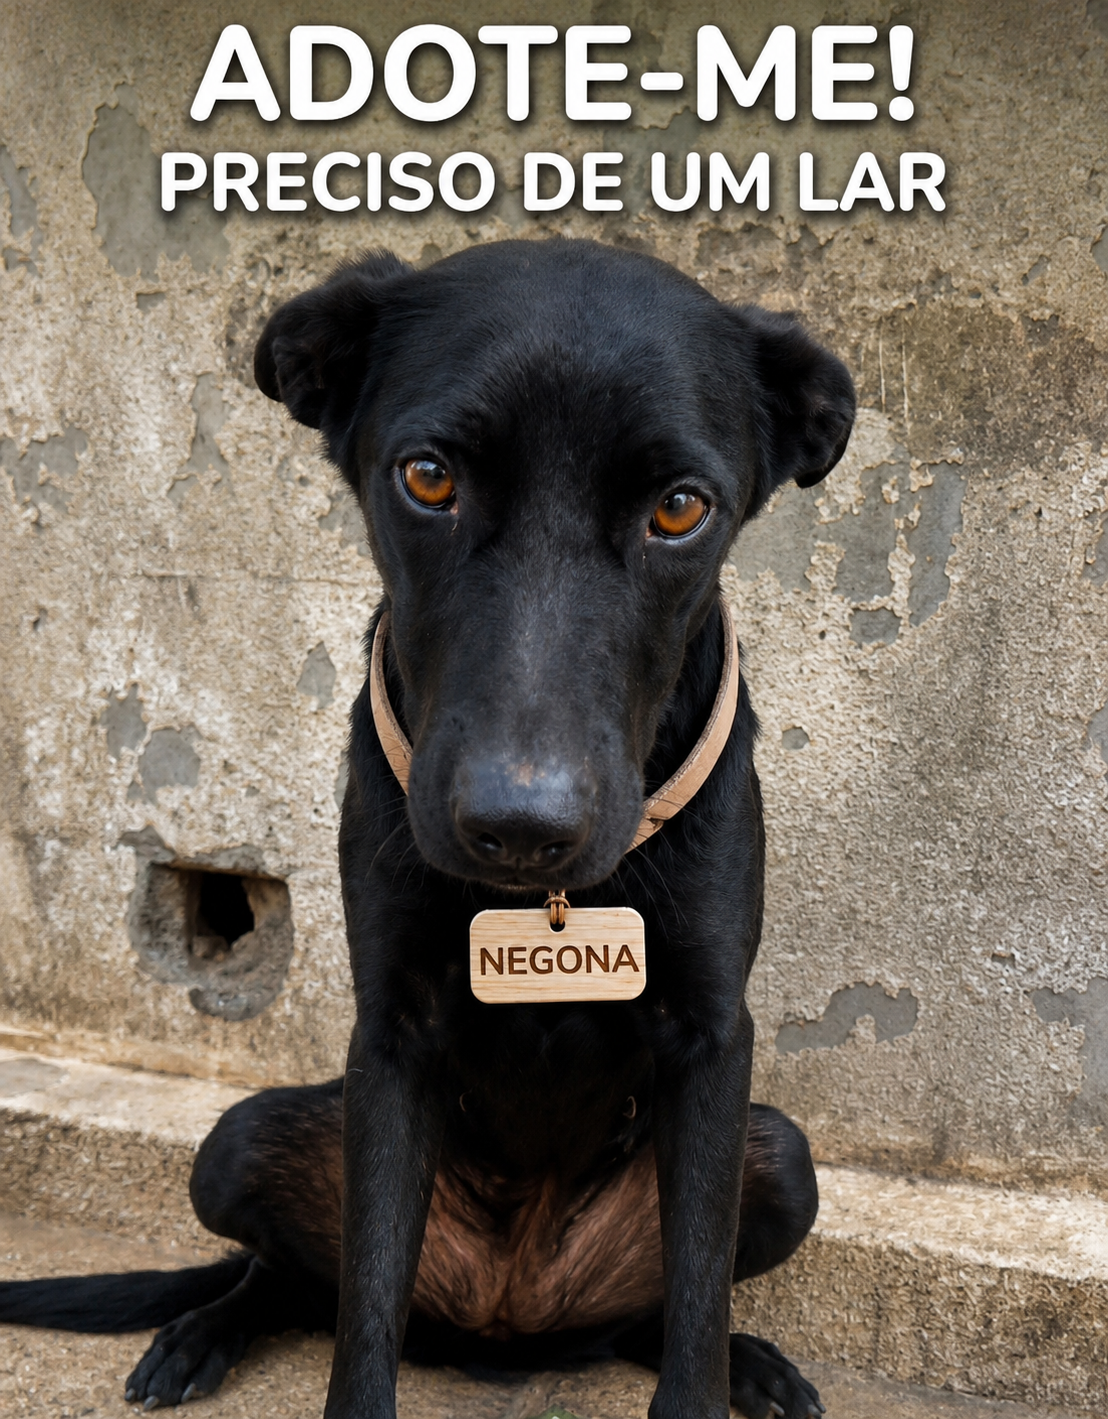
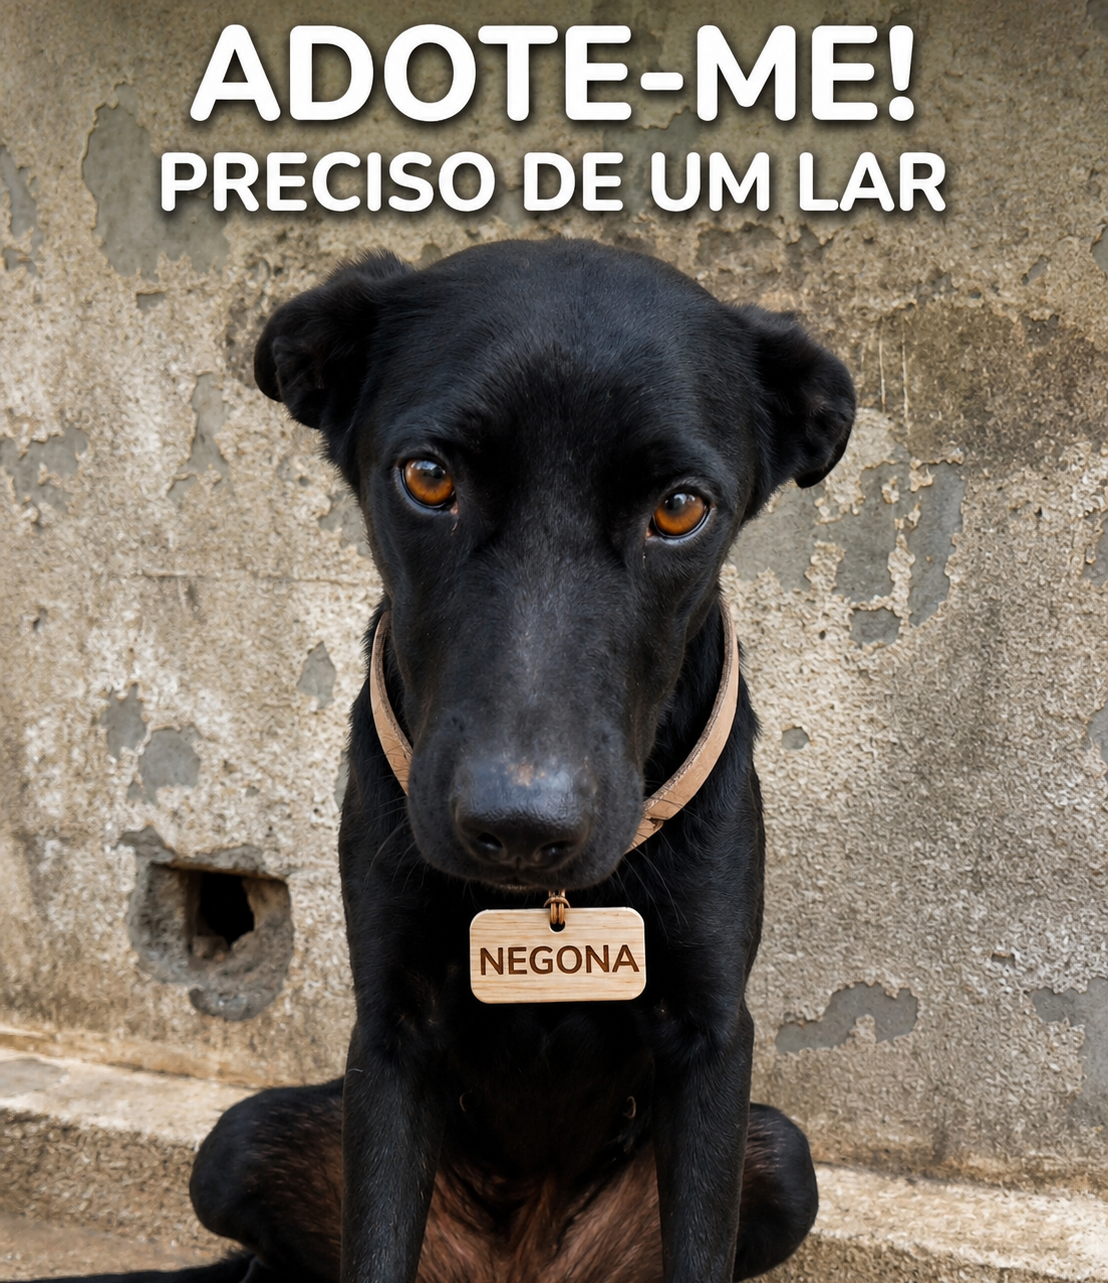
style: improve css style in history page

diff --git a/src/frontend/src/pages/History/History.jsx b/src/frontend/src/pages/History/History.jsx
@@ -1,5 +1,6 @@
 import { useState, useRef, useEffect } from 'react';
 import { useNavigate } from 'react-router-dom';
+import dogPaw from '../../assets/historypage/HISTORY_dog_paw.webp';
 import styles from './History.module.css';
 import ButtonComponent from '../../components/btn/ButtonComponent/ButtonComponent';
 
@@ -125,15 +126,27 @@ const History = () => {
   return (
     <main className={styles.main}>
       <section className={styles.quemSomos}>
-        <p className={styles.chapeu}>Quem Somos</p>
-        <h1>
-          De uma <em>ideia</em>, uma revolução de <em>amor.</em>
-        </h1>
+        <div className={styles.quemSomosHeader}>
+          <div className={styles.imageWrapper}>
+            <img
+              src={dogPaw}
+              alt={`Pata de cachorro da ${name}`}
+              className={styles.dogPaw}
+            />
+          </div>
+
+          <p className={styles.chapeu}>Quem Somos</p>
+
+          <h1>
+            De uma <em>ideia</em>, uma revolução de <em>amor.</em>
+          </h1>
+        </div>
+
         <div className={styles.paragrafos}>
-          <p>Em 21 de setembro de 2018, em Tianguá, um grupo de pessoas decidiu não indignar-se não apenas pelo sofrimento — mas precisou agir. Assim nasceu a ONG Coração Valente.</p>
-          <p>Desde então, resgatamos, tratamos e encaminhamos centenas de animais que chegaram até nós machucados, assustados ou simplesmente esquecidos. Não somos um abrigo permanente: somos a ponte entre o abandono e um novo lar.</p>
-          <p>Cada castração realizada, cada feira de adoção organizada e cada ação educativa levada às escolas é um passo em direção a uma Serra da Ibiapaba mais consciente e mais justa com os animais.</p>
-          <p>Tudo isso só é possível graças a você — voluntários, doadores e parceiros que acreditam que o cuidado com os animais diz muito sobre quem somos como comunidade.</p>
+          <p>Em 21 de setembro de 2018, em Tianguá, um grupo de pessoas decidiu não indignar-se não apenas pelo sofrimento — mas precisou agir. <strong>Assim nasceu a ONG Coração Valente.</strong></p>
+          <p>Desde então, <strong>resgatamos, tratamos e encaminhamos</strong> centenas de animais que chegaram até nós machucados, assustados ou simplesmente esquecidos. <strong>Não somos um abrigo permanente: somos a ponte entre o abandono e um novo lar.</strong></p>
+          <p>Cada castração realizada, cada feira de adoção organizada e cada ação educativa levada às escolas é um passo em direção a uma <strong>Serra da Ibiapaba mais consciente e mais justa com os animais.</strong></p>
+          <p><strong>Tudo isso só é possível graças a você</strong> — voluntários, doadores e parceiros que acreditam que <strong>o cuidado com os animais diz muito sobre quem somos como comunidade.</strong></p>
         </div>
       </section>
 
@@ -142,10 +155,8 @@ const History = () => {
           Nossas principais <em>ações</em>
         </h2>
         <Carousel />
-      </section>
 
-      <section className={styles.cta}>
-        <ButtonComponent onClick={() => navigate('/voluntariado')}>
+        <ButtonComponent className={styles.cta} onClick={() => navigate('/voluntariado')}>
           Quero ser voluntário
         </ButtonComponent>
       </section>

diff --git a/src/frontend/src/pages/History/History.module.css b/src/frontend/src/pages/History/History.module.css
@@ -18,6 +18,10 @@
   box-sizing: border-box;
 }
 
+.quemSomosHeader {
+  display: block;
+}
+
 .chapeu {
   font-size: var(--fs-xs);
   font-weight: 500;
@@ -36,6 +40,18 @@
   margin-bottom: var(--space-lg);
 }
 
+.imageWrapper {
+  float: right;
+  margin-left: 16px;
+  margin-bottom: 8px;
+}
+
+.dogPaw {
+  width: 23svw;
+  max-width: 170px;
+  display: block;
+}
+
 .paragrafos {
   display: flex;
   flex-direction: column;
@@ -51,6 +67,10 @@
 /* AÇÕES */
 .acoes {
   padding: 48px 0 40px;
+  display: flex;
+  justify-content: center;
+  align-items: center;
+  flex-direction: column;
 }
 
 .acoes h2 {
@@ -91,8 +111,9 @@
 
 .card img {
   width: 100%;
-  height: 250px;
+  height: 40svh;
   object-fit: cover;
+  object-position: top;
   display: block;
 }
 
@@ -203,16 +224,17 @@
   transform: scale(1.3);
 }
 
-/* CTA */
 .cta {
-  padding: 36px var(--space-lg) 60px;
-  display: flex;
-  justify-content: center;
+  margin-top: var(--space-lg);
 }
 
 @media (min-width: 768px) {
   .quemSomos {
     padding: 80px var(--space-lg) 60px;
+  }
+
+  .card img {
+    height: 75svh;
   }
 
   .acoes {

diff --git a/src/frontend/src/components/layout/NavbarComponent/NavbarComponent.module.css b/src/frontend/src/components/layout/NavbarComponent/NavbarComponent.module.css
@@ -93,13 +93,17 @@
   transform: scale(1.03);
 }
 
+  .active .label {
+    display: inline;
+  }
+
 @media (max-width: 660px) {
   .headerSpacer {
     height: 66px;
   }
 
   .navbar {
-    width: calc(100% - 16px);
+    min-width: calc(100% - 16px);
 
     display: flex;
     justify-content: space-between;
@@ -136,7 +140,7 @@
   }
 
   .active .label {
-    display: inline;
+    display: none;
   }
 
   .donateBtn,
@@ -156,10 +160,6 @@
   .nav-item svg {
     width: 18px;
     height: 18px;
-  }
-
-  .active .label {
-    display: none;
   }
 
   .donateBtn :global(.text),

diff --git a/src/frontend/src/index.css b/src/frontend/src/index.css
@@ -21,7 +21,7 @@
   --fs-md: 18px;
   --fs-xl: 60px;
 
-  --fs-h1: clamp(40px, 6vw, 60px);
+  --fs-h1: clamp(42px, 6vw, 60px);
   --fs-h2: clamp(32px, 4.5vw, 48px);
   --fs-h3: clamp(20px, 2.5vw, 26px);
   --fs-h4: var(--fs-md);
